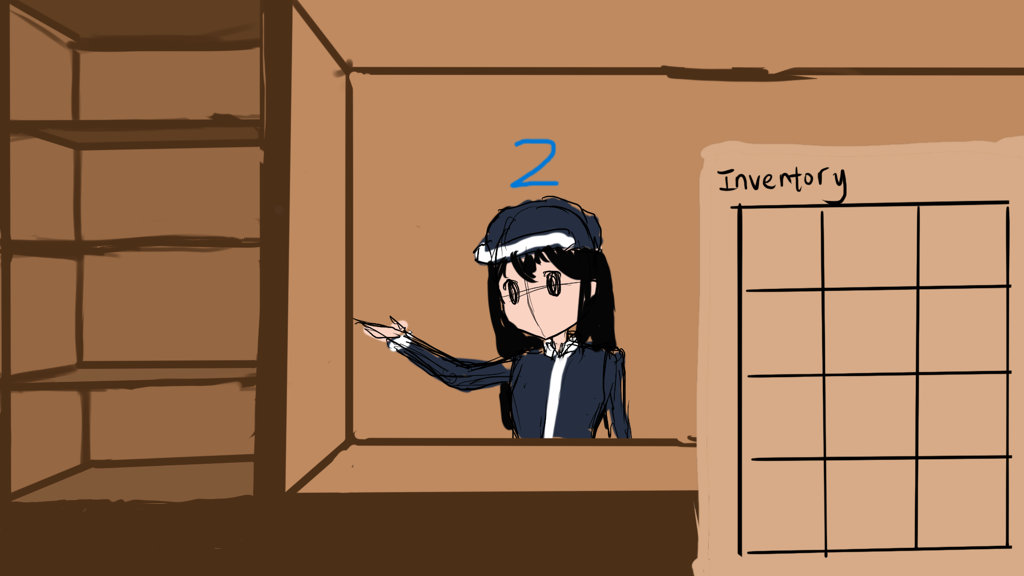
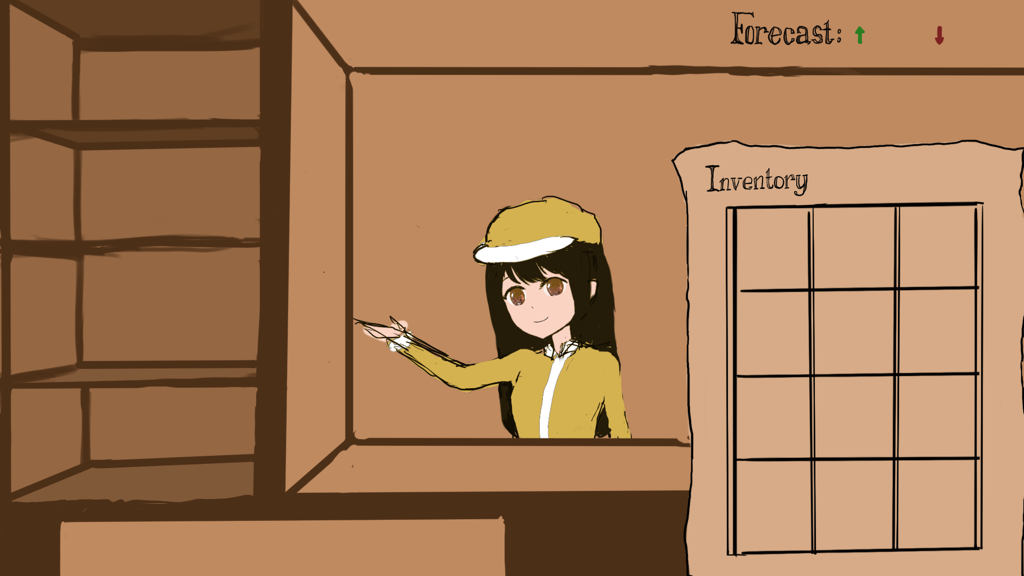
Update
stores left
sell limit
new sprites

diff --git a/src/main.cpp b/src/main.cpp
@@ -5,6 +5,7 @@
 #include <stdlib.h>
 #include <random>
 #include <numeric>
+#include <string>
 
 #define ASSETS "../assets/"
 
@@ -87,7 +88,24 @@ int main(){
     hoverText.setCharacterSize(40);
     hoverText.setStyle(sf::Text::Bold);
     hoverText.setFillColor(sf::Color::Black);
-    hoverText.setPosition({200.f,650.f});
+    hoverText.setPosition({180.f,660.f});
+
+
+    // text for stores left
+    sf::Text storesLeftText(font,"");
+    storesLeftText.setCharacterSize(35);
+    storesLeftText.setStyle(sf::Text::Bold);
+    storesLeftText.setFillColor(sf::Color::Black);
+    storesLeftText.setPosition({500.f, 15.f});
+    int storesCount = 10;
+
+    //text for number of items the store will buy
+    sf::Text willBuyText(font, "Will buy \n");
+    willBuyText.setCharacterSize(25);
+    willBuyText.setStyle(sf::Text::Bold);
+    willBuyText.setFillColor(sf::Color::Black);
+    willBuyText.setPosition({450.f, 325.f});
+    int willBuy = 5;
 
     // game clear and game over texts
     sf::Text GameClearText(font,"GAME CLEAR");
@@ -140,11 +158,11 @@ int main(){
     // Set up first shop
     Shop currentShop = SetUpShop(-1, -1);
     itemHigh = ALL_ITEMS[currentShop.forecastHigh].Clone();
-    itemHigh.sprite->setScale({0.10f,0.10f});
-    itemHigh.sprite->setPosition({500.f, 100.f});
+    itemHigh.sprite->setScale({0.07f,0.07f});
+    itemHigh.sprite->setPosition({1080.f, 0.f});
     itemLow = ALL_ITEMS[currentShop.forecastLow].Clone();
-    itemLow.sprite->setScale({0.10f,0.10f});
-    itemLow.sprite->setPosition({600.f, 100.f});
+    itemLow.sprite->setScale({0.07f,0.07f});
+    itemLow.sprite->setPosition({1180.f, 0.f});
 
     // MAIN LOOP
     while (window.isOpen())
@@ -173,9 +191,9 @@ int main(){
                     }
                 }
                 // sell item from inventory
-                else{
+                else if (willBuy > 0){
                     itemClicked = InteractWith(inventory,cursorSprite);
-                
+                    willBuy --;
                     if(itemClicked.sprite != nullptr){
                         if(itemClicked.tag == 'i'){
                             for(int i = 0; i < inventory.size(); i++){
@@ -202,16 +220,18 @@ int main(){
                     ModifyItemListPrice(currentShop.items);
                     std::cout << "inventory prices:" << std::endl;
                     ModifyItemListPrice(inventory);
+                    
+                    willBuy = rand() % 4 + 4;
 
                     itemHigh = ALL_ITEMS[currentShop.forecastHigh].Clone();
-                    itemHigh.sprite->setScale({0.10f,0.10f});
-                    itemHigh.sprite->setPosition({500.f, 100.f});
-
+                    itemHigh.sprite->setScale({0.07f,0.07f});
+                    itemHigh.sprite->setPosition({1080.f, 0.f});
                     itemLow = ALL_ITEMS[currentShop.forecastLow].Clone();
-                    itemLow.sprite->setScale({0.10f,0.10f});
-                    itemLow.sprite->setPosition({600.f, 100.f});
+                    itemLow.sprite->setScale({0.07f,0.07f});
+                    itemLow.sprite->setPosition({1180.f, 0.f});
 
                     scene++;
+                    storesCount--;
                     madeTransaction = false;
                     break;
                 }
@@ -222,7 +242,7 @@ int main(){
         if(money >= moneyGoal){
             gameClear = true;
         }
-        else if(money < currentShop.lowestItemPrice && inventory.size() == 0){
+        else if((money < currentShop.lowestItemPrice && inventory.size() == 0) || storesCount < 0){
             gameOver = true;
         }
         
@@ -269,6 +289,10 @@ int main(){
             window.draw(*itemLow.sprite);
 
         window.draw(hoverText);
+        storesLeftText.setString("Stores Left: " + std::to_string(storesCount));
+        window.draw(storesLeftText);
+        willBuyText.setString("Will Buy\n" + std::to_string(willBuy) + " Items");
+        window.draw(willBuyText);
         window.draw(moneyText);
         if(madeTransaction)
             window.draw(rightArrow);
@@ -292,6 +316,7 @@ std::vector<Item> SetUpItems() {
     Bow.texture = new sf::Texture();
     Bow.texture->loadFromFile("../assets/bow.png");
     Bow.sprite = new sf::Sprite(*Bow.texture);
+    Bow.sprite->setOrigin(sf::Vector2f(0.f, 5.f));
     Bow.name = "Bow";
     Bow.id = 0;
     Bow.price = 10;
@@ -322,11 +347,22 @@ std::vector<Item> SetUpItems() {
     Sword.texture = new sf::Texture();
     Sword.texture->loadFromFile("../assets/psword.png");
     Sword.sprite = new sf::Sprite(*Sword.texture);
-    Sword.name = "Paolo Sword";
+    Sword.name = "Paola Sword";
     Sword.id = 3;
     Sword.price = 100;
     Sword.tag = 's';
     items.push_back(Sword);
+
+    Item Shield;
+    Shield.texture = new sf::Texture();
+    Shield.texture -> loadFromFile("../assets/pshield.png");
+    Shield.sprite = new sf::Sprite(*Shield.texture);
+    Shield.sprite->setOrigin(sf::Vector2f(0.f, 5.f));
+    Shield.name = "Paolo Shield";
+    Shield.id = 4;
+    Shield.price = 80;
+    Shield.tag = 's';
+    items.push_back(Shield);
     
     return items;
 }
@@ -339,7 +375,7 @@ Shop SetUpShop(int highItem, int lowItem){
     // SHOP BACKGROUND
     shop.texture = new sf::Texture();
 
-    int bg = rand() % 3;
+    int bg = rand() % 5;
     switch(bg){
         case 0:
             shop.texture->loadFromFile("../assets/background.png");
@@ -349,6 +385,12 @@ Shop SetUpShop(int highItem, int lowItem){
             break;
         case 2:
             shop.texture->loadFromFile("../assets/background2.png");
+            break;
+        case 3:
+            shop.texture->loadFromFile("../assets/background3.png");
+            break;
+        case 4:
+            shop.texture->loadFromFile("../assets/background4.png");
             break;
     }
     //shop.texture->loadFromFile("../assets/background.png");
@@ -368,7 +410,7 @@ Shop SetUpShop(int highItem, int lowItem){
     shop.lowestItemPrice = 5000;
     // add random items to the vector
     // 3 ITEMS, INCRESE TO 4 LATER
-    for(int i = 0; i < 3 && i < indices.size(); i++){
+    for(int i = 0; i < 4 && i < indices.size(); i++){
         int itemNo = indices[i];
         Item item = ALL_ITEMS[itemNo].Clone();
 
